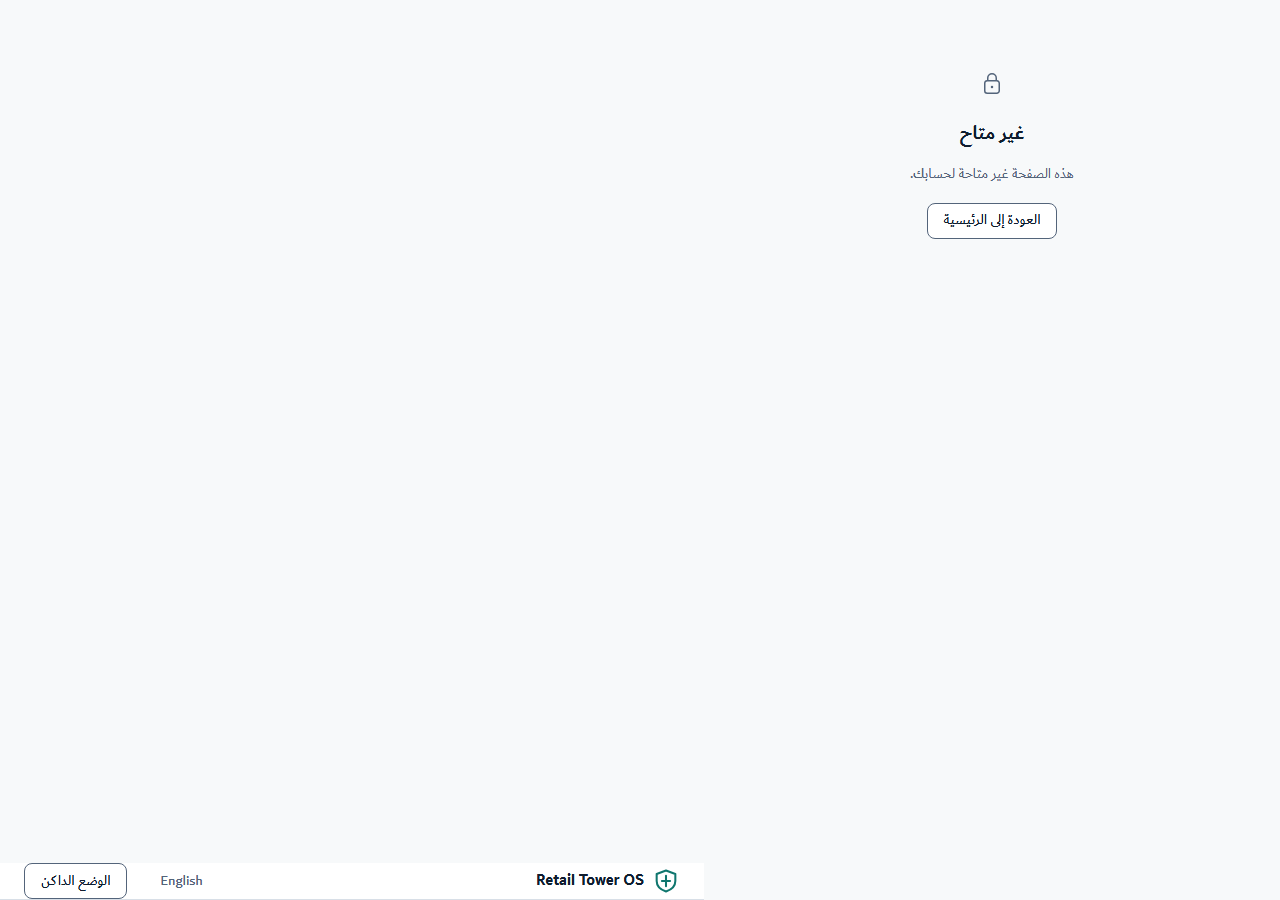
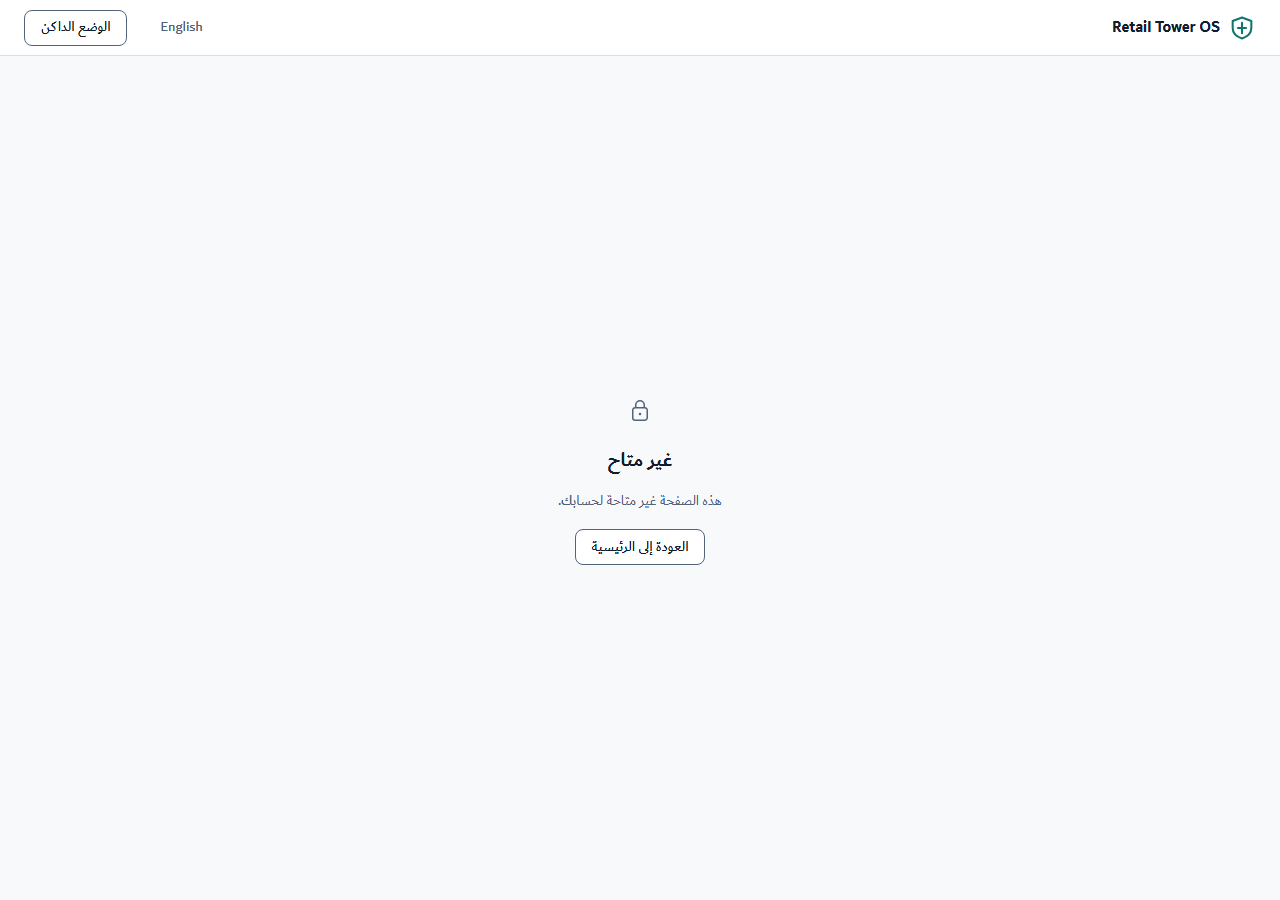
docs: RT-929 re-capture frame 76 after the no-access layout fix
Frame 76 (/platform for a non-platform-admin) is re-captured from the
built SPA on main@39e0dbfb at 1440 and 1280. The broken "before" stays
at 24fe2552. The as-built review marks P1-1 and F1 as fixed in #100.

diff --git a/apps/admin-console/docs/design/rt777-platform-console/as-built-review.md b/apps/admin-console/docs/design/rt777-platform-console/as-built-review.md
@@ -61,7 +61,7 @@ console, which is its quietest band.
 
 | Id | Severity | Frame | Issue | Cause (verified) | Fix |
 |---|---|---|---|---|---|
-| P1-1 | P1, layout bug | 76 | The no-access page is broken: the top bar renders at the bottom-left and the card sits off-centre | `.platform-standalone` (`platform.css`) has `grid-template-rows` but no areas; `.topbar` (`app-shell.css:32`) sets `grid-area: topbar`, an unknown name, so the grid adds implicit tracks | Add `grid-template-areas: "topbar" "stage"` and `grid-area: stage`, or `.platform-standalone .topbar { grid-area: auto; }` |
+| P1-1 | P1, layout bug, fixed in RT-929 (#100) | 76 | The no-access page is broken: the top bar renders at the bottom-left and the card sits off-centre | `.platform-standalone` (`platform.css`) has `grid-template-rows` but no areas; `.topbar` (`app-shell.css:32`) sets `grid-area: topbar`, an unknown name, so the grid adds implicit tracks | Add `grid-template-areas: "topbar" "stage"` and `grid-area: stage`, or `.platform-standalone .topbar { grid-area: auto; }` |
 | P1-2 | P1, flow | 74 | Renew answered "session already gone": the operator is sent to the directory with no message, and the live region unmounts with the bar | `gone: "leave"` in `useSessionActions.ts` | A one-shot notice on the directory saying the session ended or was replaced, that nothing changed, and how to continue. Same for End `gone`. Needs new copy |
 | P2-1 | P2, duplicate state | 62, 68 | Rate limit shown twice, with two retry controls in different states | The shell's `RateLimitBanner` (`PlatformShell.tsx:110`) plus the directory's and drawer's own banners | One message and one countdown per failure: suppress the shell banner when the surface owns the 429 |
 | P2-2 | P2, layout bug | 57, 58 | The slug floats about 450px from the tenant name and reads as a third, headerless column | `.platform-directory__slug { display: block }` on an LTR `bdi` aligns to the left of the RTL cell | Align it to the cell's start (`text-align: right` under RTL, or an inline isolate); constrain the table width |
@@ -101,7 +101,7 @@ console, which is its quietest band.
 
 | Slice | Covers | Kind | Jira |
 |---|---|---|---|
-| F1 | P1-1 no-access layout | CSS fix, one file | RT-929 |
+| F1 | P1-1 no-access layout | CSS fix, one file. Merged in #100; frame 76 re-captured | RT-929 |
 | F2 | P1-2 "session gone" notice, and End `gone` | Flow and copy (copy needs owner approval) | RT-930 |
 | F3 | Withdrawn: the «المالك» role was a fixture artifact (§0). The «لوحة التحكم» label is a minor observation (§3) | None | None |
 | F4 | P2-1 single rate-limit surface | Shell and platform | Not opened |

diff --git a/apps/admin-console/design/screens/README.md b/apps/admin-console/design/screens/README.md
@@ -84,7 +84,7 @@ Every RT-474 file above also exists at 1280 wide with `-1280` before `.png` (for
 | `73-platform-session-renewed.png` | Right after a successful renew | `renewSupportSession` 200 |
 | `74-platform-session-renew-gone.png` | Renew answered that the session is already gone | `renewSupportSession` 409 `support_session_absent` |
 | `75-platform-session-renew-origin.png` | Renew refused: origin rejected | `renewSupportSession` 403 `origin_rejected` |
-| `76-platform-no-access.png` | `/platform` for a user who is not a platform admin | `PlatformNotAvailable` |
+| `76-platform-no-access.png` | `/platform` for a user who is not a platform admin. Re-captured on `main@39e0dbfb` after the RT-929 layout fix; the broken "before" is at `24fe2552` | `PlatformNotAvailable` |
 
 Every file in this table also exists at 1280 wide with `-1280` before `.png`.
 
